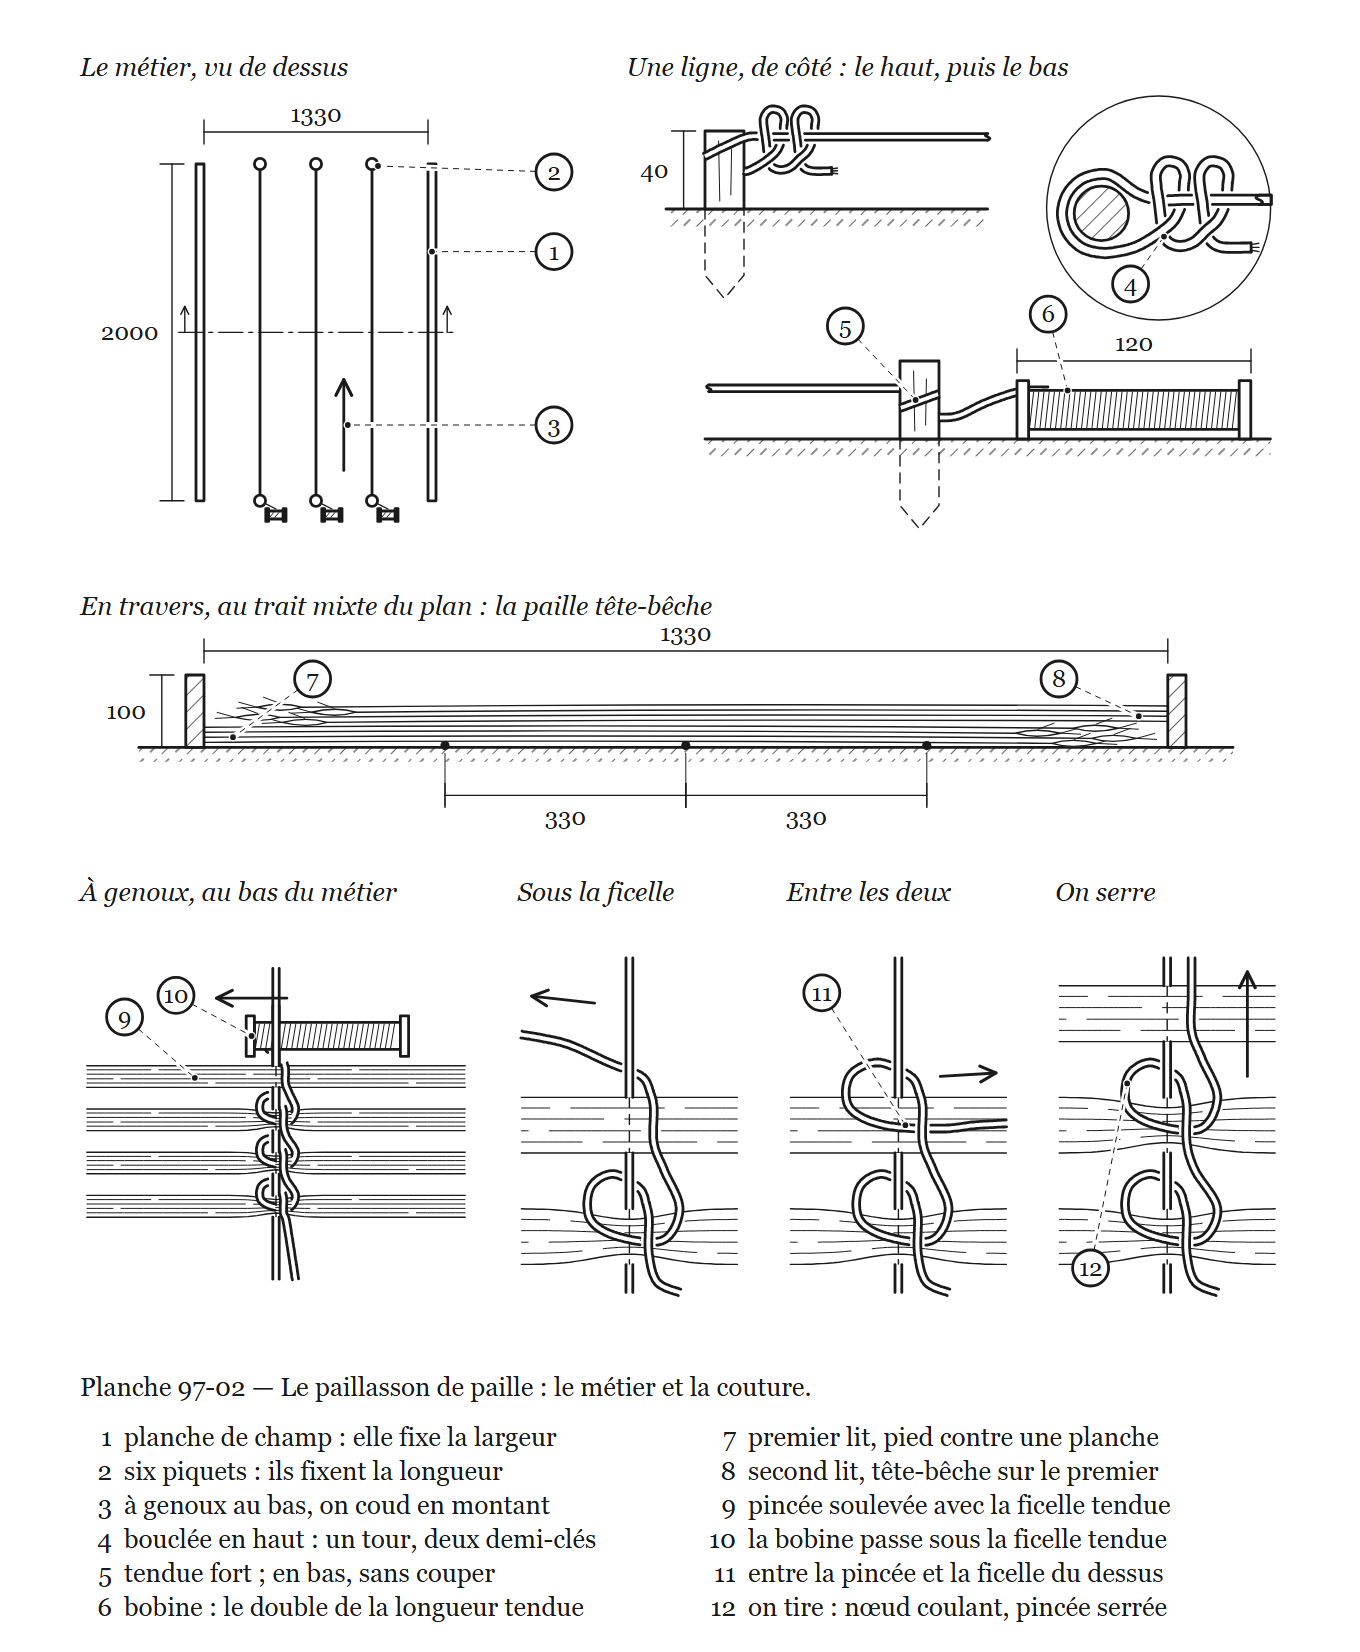
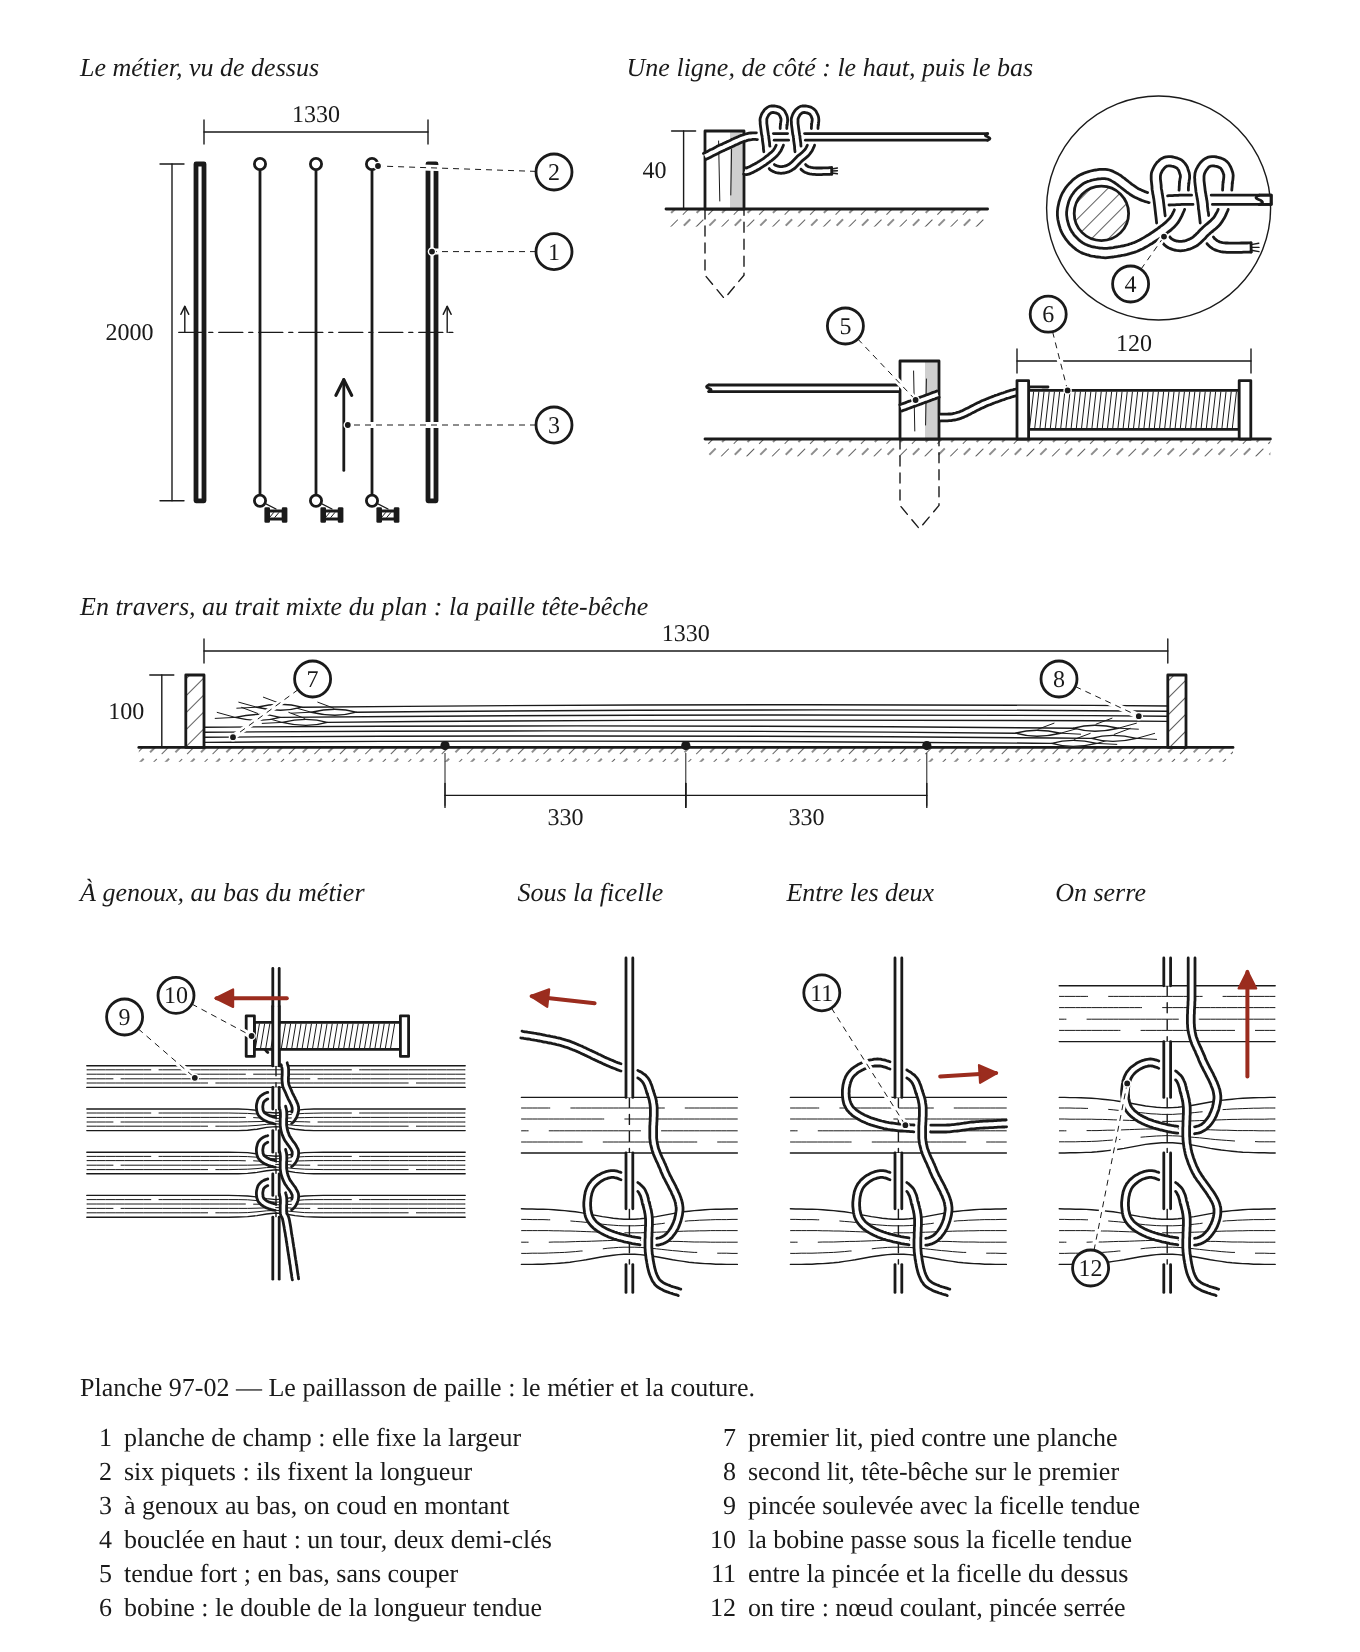
Charte : lot 8, paquet 1 (8 planches) ; 31-40
Claude-Session: https://claude.ai/code/session_014xDY5FLxFXDJt3nYAYznSZ

diff --git a/images/planches-src/97-02.js b/images/planches-src/97-02.js
@@ -107,8 +107,11 @@ module.exports = (h) => {
     const [xa] = P(xc - 10, 0), [xb] = P(xc + 10, 0), [, yh] = P(0, sol - 40), [, ys] = P(0, sol);
     return [
       h.path(`M${f1(xa)} ${f1(ys)} L${f1(xa)} ${f1(ys + 34 * k)} L${f1((xa + xb) / 2)} ${f1(ys + 46 * k)} L${f1(xb)} ${f1(ys + 34 * k)} L${f1(xb)} ${f1(ys)}`, A.cache),
-      h.rect(xa, yh, xb - xa, ys - yh, blanc),
+      // La charte : le flanc droit du piquet, à l'ombre (lumière en haut à gauche)
+      h.rect(xa, yh, xb - xa, ys - yh, fond),
+      h.rect(xa + (xb - xa) * 0.64, yh, (xb - xa) * 0.36, ys - yh, A.ombre),
       h.path(`M${f1(xa + (xb - xa) * 0.35)} ${f1(yh + 5)} L${f1(xa + (xb - xa) * 0.38)} ${f1(ys - 4)} M${f1(xa + (xb - xa) * 0.68)} ${f1(yh + 9)} L${f1(xa + (xb - xa) * 0.66)} ${f1(ys - 7)}`, A.fin),
+      h.rect(xa, yh, xb - xa, ys - yh, A.arete),
     ].join('\n');
   }
   function sol(P, xa, xb, y, k) {
@@ -151,8 +154,9 @@ module.exports = (h) => {
           const out = [];
           // planches de champ : minces vues de dessus
           const ep = Math.max(25 * s, 4);
-          out.push(h.rect(P(-25, 0)[0] - (ep - 25 * s), P(0, 0)[1], ep, 2000 * s, A.arete));
-          out.push(h.rect(P(1330, 0)[0], P(0, 0)[1], ep, 2000 * s, A.arete));
+          // La charte : les deux planches sont le cadre du métier, leur contour pèse
+          out.push(h.rect(P(-25, 0)[0] - (ep - 25 * s), P(0, 0)[1], ep, 2000 * s, A.contour));
+          out.push(h.rect(P(1330, 0)[0], P(0, 0)[1], ep, 2000 * s, A.contour));
           // la ligne de coupe en travers, au trait mixte, et le sens du regard (vers le haut)
           const [xc1, yc] = P(-150, 1000), [xc2] = P(1480, 1000);
           out.push(h.ligne(xc1, yc, xc2, yc, mixte));
@@ -303,8 +307,8 @@ module.exports = (h) => {
           const [bx, by] = P(-22, -30);
           out.push(bobine(bx, by, 120 * k, 15 * k, 10 * k, 6 * k));
           out.push(F.cordes([{ pts: [P(0, -8), P(0, -52)], ep, debut: 'ouvert', fin: 'ouvert' }]).toString());
-          // le geste : la bobine file sous la ficelle tendue, de droite à gauche
-          out.push(h.fleche(`M${f1(P(8, -58)[0])} ${f1(P(8, -58)[1])} L${f1(P(-44, -58)[0])} ${f1(P(-44, -58)[1])}`, A.arete));
+          // le geste : la bobine file sous la ficelle tendue, de droite à gauche (la charte : en rouge)
+          out.push(h.geste(`M${f1(P(8, -58)[0])} ${f1(P(8, -58)[1])} L${f1(P(-44, -58)[0])} ${f1(P(-44, -58)[1])}`));
           return out.join('\n');
         },
         renvois: z => {
@@ -324,7 +328,7 @@ module.exports = (h) => {
           const k = Math.min((z.l - 4) / 62, (z.h - 4) / 96);
           const P = repere(z.l / 2, z.h / 2, k);
           const w = [[14.4, 48, 0.5], ...noeud(32, 0.8), ...noeud(0, 1, 0, 6), [-17, -23, 0], [-25, -25, 0], [-31, -26, 0]];
-          const fl = h.fleche(`M${f1(P(-10, -35)[0])} ${f1(P(-10, -35)[1])} L${f1(P(-28, -37)[0])} ${f1(P(-28, -37)[1])}`, A.arete);
+          const fl = h.geste(`M${f1(P(-10, -35)[0])} ${f1(P(-10, -35)[1])} L${f1(P(-28, -37)[0])} ${f1(P(-28, -37)[1])}`);   // la charte : le geste
           return couture(P, k, { y0: 48, y1: -48, L: 31, pinces: [{ yc: 32, taille: 3 }, { yc: 0 }], w, ep: 3.4, apres: fl });
         },
       },
@@ -334,7 +338,7 @@ module.exports = (h) => {
           const k = Math.min((z.l - 4) / 62, (z.h - 4) / 96);
           const P = repere(z.l / 2, z.h / 2, k);
           const w = [[14.4, 48, 0.5], ...noeud(32, 0.8), ...noeud(0, 1, 0, 10), [22, 0, 0.5], [31, -0.5, 0.5]];
-          const fl = h.fleche(`M${f1(P(12, -14)[0])} ${f1(P(12, -14)[1])} L${f1(P(28, -15)[0])} ${f1(P(28, -15)[1])}`, A.arete);
+          const fl = h.geste(`M${f1(P(12, -14)[0])} ${f1(P(12, -14)[1])} L${f1(P(28, -15)[0])} ${f1(P(28, -15)[1])}`);   // la charte : le geste
           return couture(P, k, { y0: 48, y1: -48, L: 31, pinces: [{ yc: 32, taille: 3 }, { yc: 0 }], w, ep: 3.4, apres: fl });
         },
         renvois: z => {
@@ -349,7 +353,7 @@ module.exports = (h) => {
           const k = Math.min((z.l - 4) / 62, (z.h - 4) / 96);
           const P = repere(z.l / 2, z.h / 2, k);
           const w = [[14.4, 48, 0.5], ...noeud(32, 0.8), ...noeud(0, 0.8), ...noeud(-32, 1, 0, 3), [7, -43, 1.2], [7, -48, 1.2]];
-          const fl = h.fleche(`M${f1(P(23, -14)[0])} ${f1(P(23, -14)[1])} L${f1(P(23, -44)[0])} ${f1(P(23, -44)[1])}`, A.arete);
+          const fl = h.geste(`M${f1(P(23, -14)[0])} ${f1(P(23, -14)[1])} L${f1(P(23, -44)[0])} ${f1(P(23, -44)[1])}`);   // la charte : le geste
           return couture(P, k, { y0: 48, y1: -48, L: 31, pinces: [{ yc: 32, taille: 3 }, { yc: 0, taille: 3 }, { yc: -32 }], w, ep: 3.4, apres: fl });
         },
         renvois: z => {

diff --git a/.claude/skills/planches/scripts/mains/moteur.js b/.claude/skills/planches/scripts/mains/moteur.js
@@ -1469,7 +1469,8 @@ function dessiner(o, prep = null) {
     // profil, qui passe derrière le manche après une P1 peinte devant ; M13 : la P1 derrière la face coupée de
     // prise-grosse, sous une P2 devant, une encoche dans le bord de la face). Devant → derrière : la phalange
     // n'est plus repeinte sur l'objet, mais le doigt reste « devant » pour le gris (il fait le tour, il reste blanc).
-    if (!imposes && !process.env.MAINS_SANS_BASCULE) {
+    // (pas pour un fil : il ne couvre de chaque phalange qu'un filet, et la découpe M1 y fait déjà le partage)
+    if (!imposes && (ob.r || 16) >= 4) {
       const parId = new Map(pieces.map((P, i) => [P.id, i]));
       const voisins = id => { const m = /^(\w+)\.p(\d)$/.exec(id); if (!m) return []; const k = +m[2]; return [k - 1, k + 1].map(j => parId.get(`${m[1]}.p${j}`)).filter(j => j !== undefined); };
       const bascule = [];
@@ -1777,16 +1778,23 @@ function patchPour(patch, regionObjet) {
   // mm : la marge le long des bords de l'objet (elle couvre son trait, jusqu'à 2,4 de vue, et son
   // anticrénelage) ; le long des pièces de devant, le blanc ne déborde que de 0,25 mm (plus, il posait un liseré
   // blanc sur l'objet entre les doigts : agent 5, C8)
-  // les traits (le bord des pièces de devant, leurs traits intérieurs) ne débordent l'objet que de mmT : la moitié
-  // de son trait. Plus loin, la couche du dessous les dessine déjà ; un bout de contour de doigt qui longeait le
-  // bord de l'objet dans la marge du blanc y faisait un ergot (agent 5, M13 : la face coupée de prise-grosse)
+  // le bord des pièces de devant ne déborde l'objet que de mmT (la moitié de son trait), sauf là où il est la
+  // silhouette : le blanc de la marge l'y cache dans la couche du dessous. Ailleurs dans la marge, c'est un bord
+  // entre deux pièces fondues, sans trait dessous : un bout de contour de doigt qui longeait le bord de l'objet y
+  // faisait un ergot (agent 5, M13 : la face coupée de prise-grosse). Les traits intérieurs, eux, existent dessous :
+  // ils vont jusqu'au bout de la marge.
   patch.pour = (mm, mmT = mm) => {
     const k = Math.round(mm * 5) / 5, kT = Math.min(k, Math.round(mmT * 10) / 10), cle = k + ',' + kT;
     if (patch.parMarge.has(cle)) return patch.parMarge.get(cle);
     let v = { fond: [], bord: [], traits: [] };
     if (patch.regDev) {
-      const ext = decale(regionObjet, k), extT = kT < k ? decale(regionObjet, kT) : ext;
-      v = { fond: inter(ext, inter(decale(patch.regDev, 0.25), patch.Ug)), bord: lignesDans(patch.bordDev, extT), traits: lignesDans(patch.tDev, extT) };
+      const ext = decale(regionObjet, k);
+      let bord = lignesDans(patch.bordDev, ext);
+      if (kT < k) {
+        const extT = decale(regionObjet, kT), bande = moins(decale(patch.Ug, 0.15), decale(patch.Ug, -0.6));
+        bord = lignesDans(patch.bordDev, extT).concat(lignesDans(lignesDans(bord, moins(ext, extT)), bande));
+      }
+      v = { fond: inter(ext, inter(decale(patch.regDev, 0.25), patch.Ug)), bord, traits: lignesDans(patch.tDev, ext) };
     }
     patch.parMarge.set(cle, v);
     return v;

diff --git a/images/planches-src/82-12a.js b/images/planches-src/82-12a.js
@@ -7,6 +7,10 @@
 //   x : de l'arrière de la tranchée (0) vers le feu ; le mur de billes s'appuie à x = 380
 //   coupe : y vers le haut, sol à 0, dessus de la neige à 100
 //   plan  : y le long du feu, la tranchée de 0 à 300 (plus large que longue)
+//
+// La charte : en coupe, le bout de la tranchée, vu par la coupe, en gris loin : les sacs, les
+// billes et le plancher restent blancs devant. Le plan reste sans gris. Pas de rouge : aucun geste
+// ni point à contrôler (les flèches de chaleur restent noires).
 
 const ECH = 1.1;   // px par cm de modèle, commun à la coupe et au plan
 
@@ -119,6 +123,8 @@ module.exports = (h) => {
             // le fond de la tranchée taillé en pente : les billes s'y couchent au lieu de rouler au feu
             h.chemin([[X(380), Y(0)], [X(440), Y(0)], [X(440), Y(100)], [X(394), Y(100)]],
               h.a.hachure('neige', 'aucun'), true),
+            // le bout de la tranchée, la neige d'en face, vu par la coupe
+            h.chemin([[X(0), Y(0)], [X(380), Y(0)], [X(394), Y(100)], [X(0), Y(100)]], h.a.loin, true),
           ];
           // le plancher de branches, posé de l'avant vers l'arrière
           for (let xb = 190; xb >= 0; xb -= 19) {
